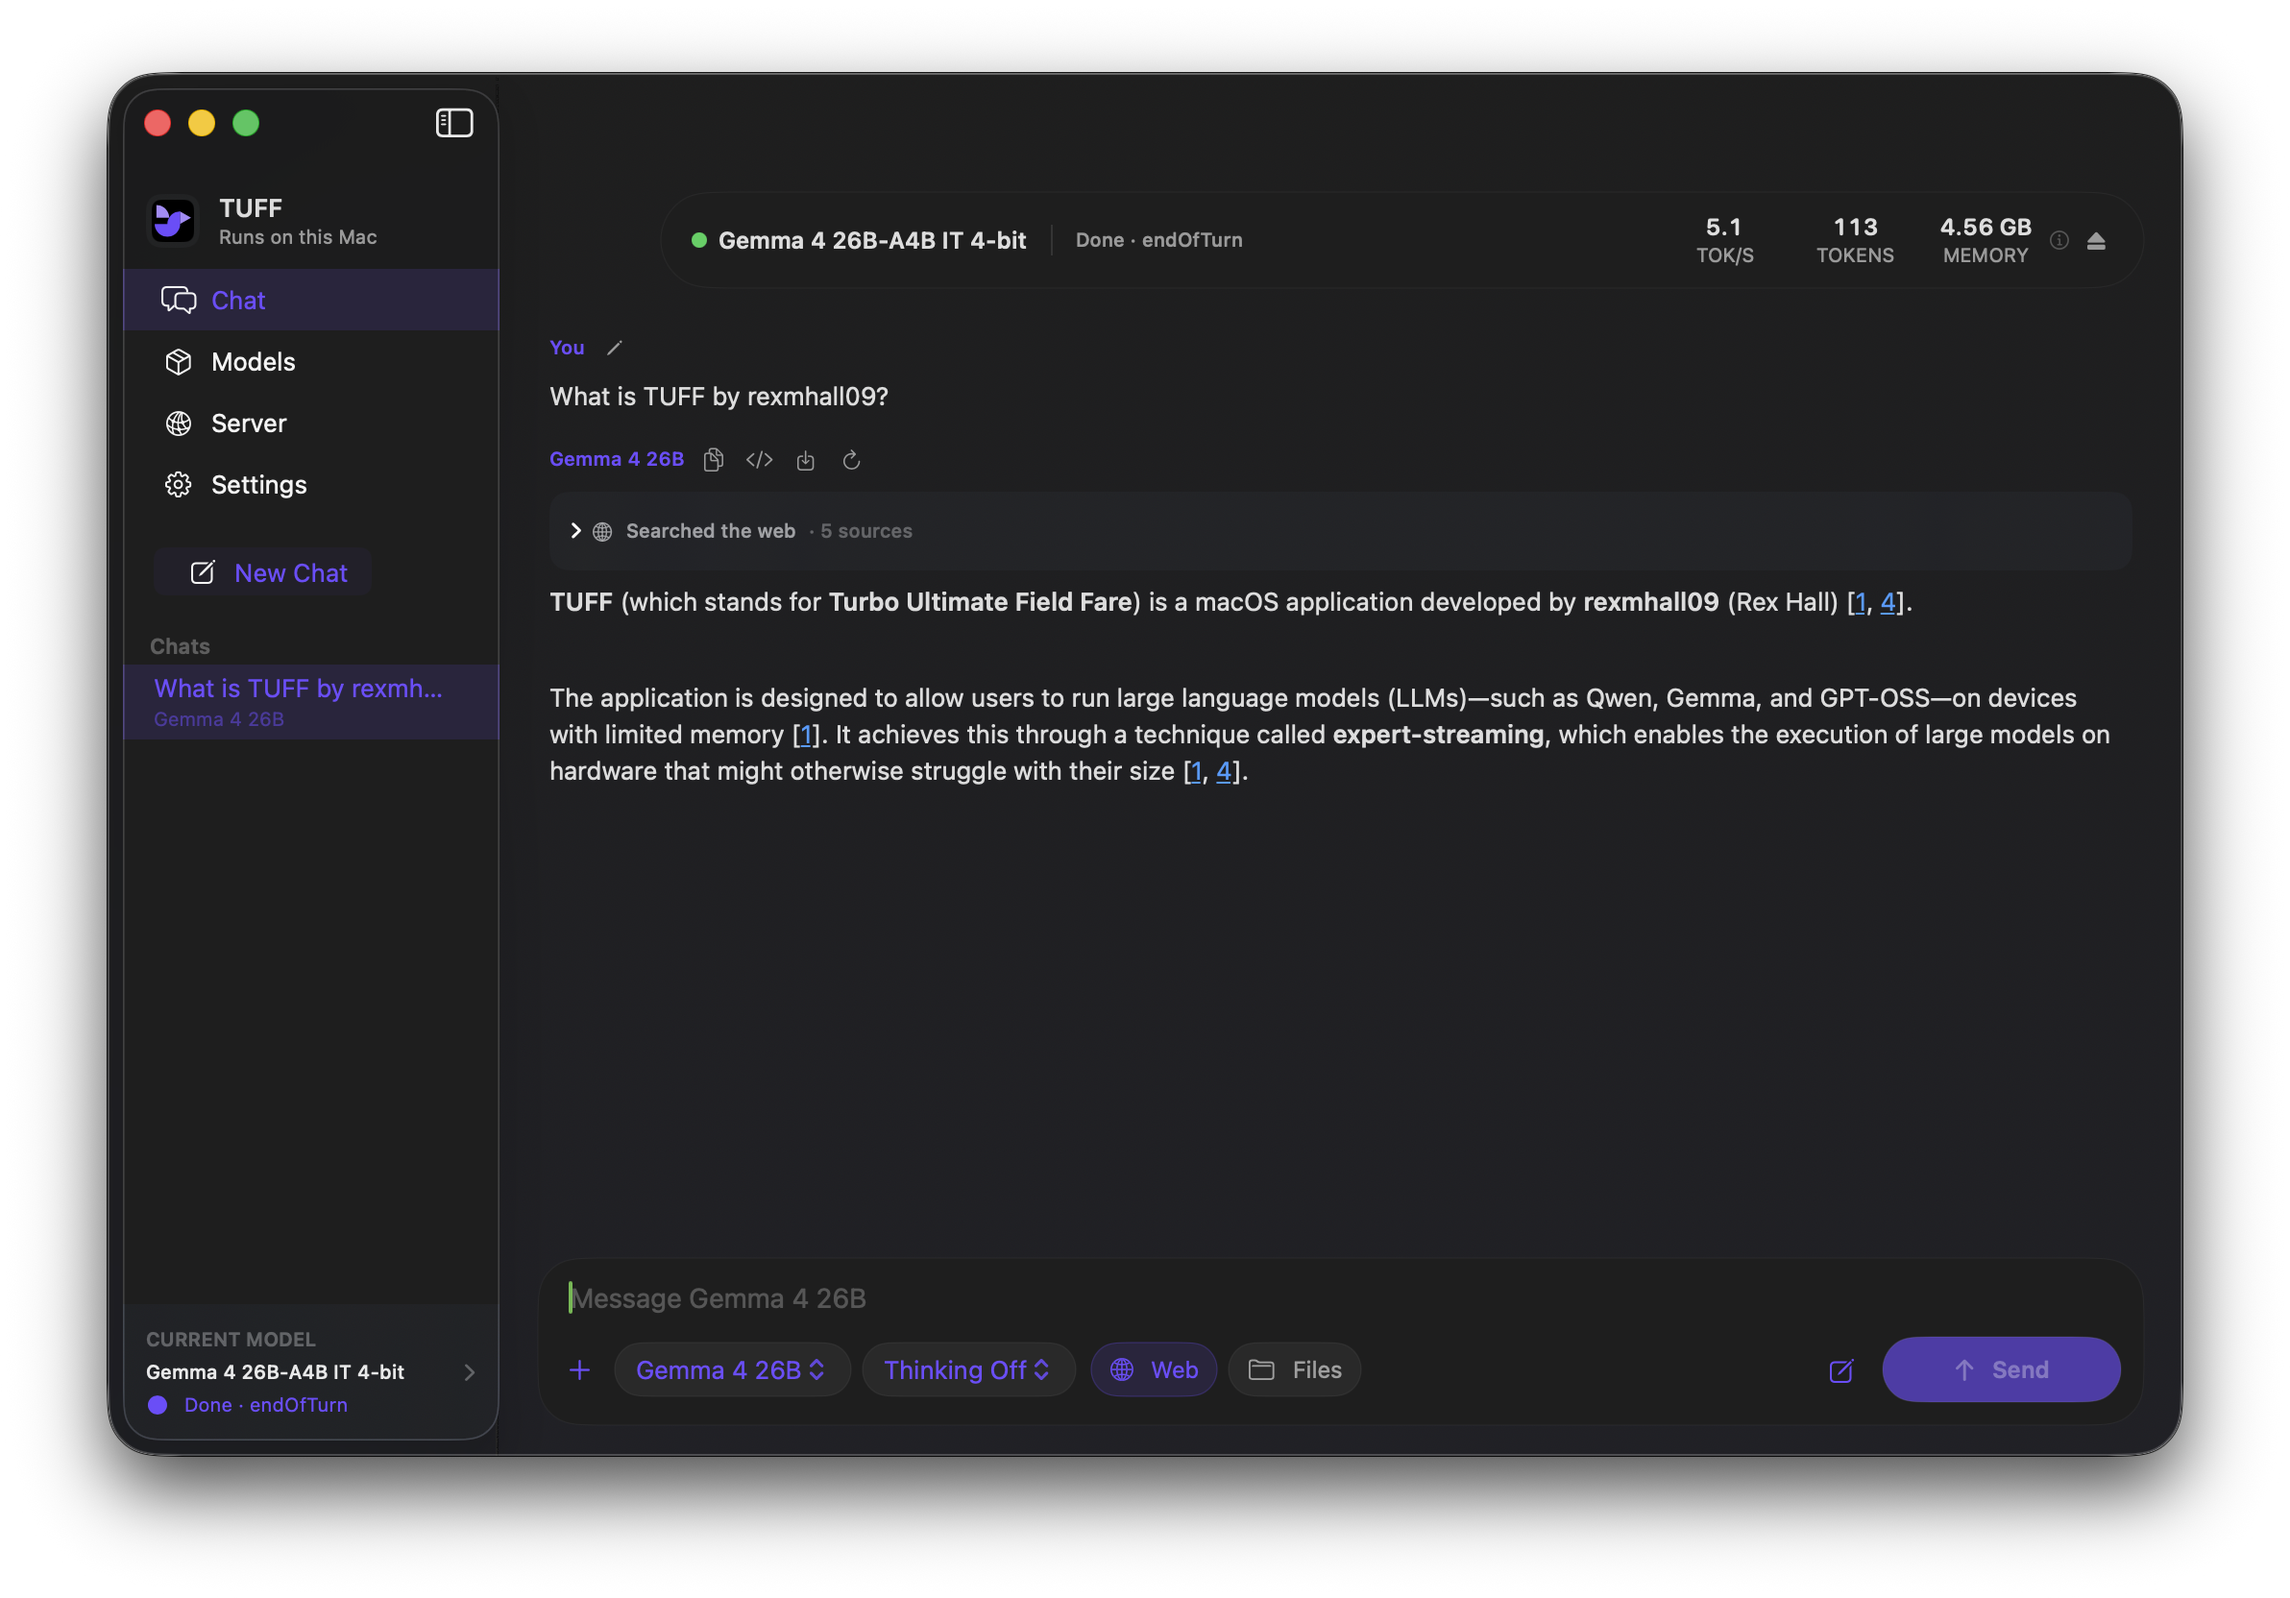
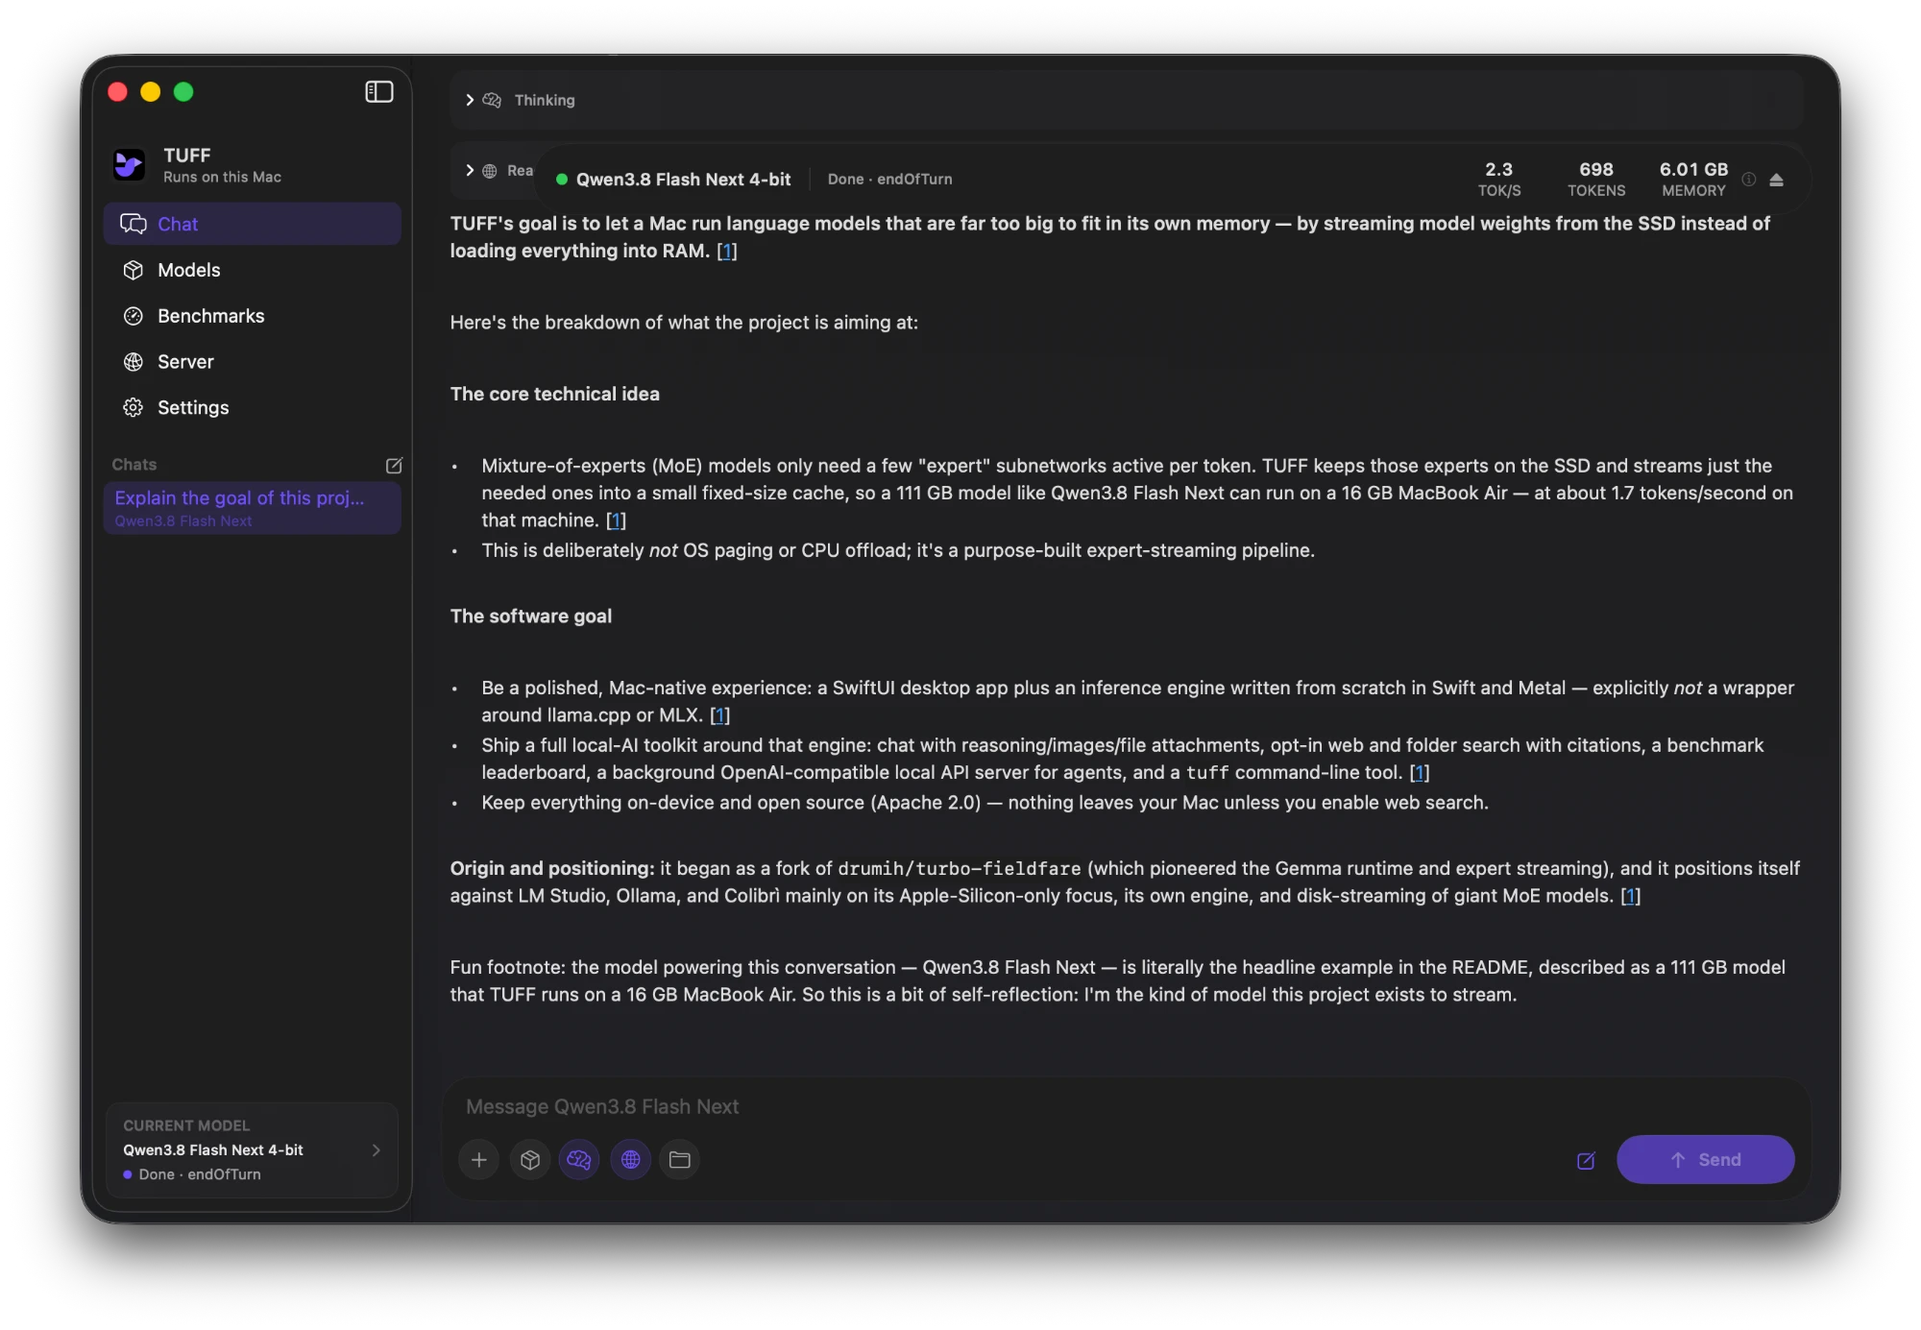
Use new 8.1 screenshots for chat, Benchmarks and Server

Changed region(s): [[0.031, 0.031, 0.961, 0.9625]]

diff --git a/index.html b/index.html
@@ -116,7 +116,7 @@
   </header>
 
   <div class="shot">
-    <img src="assets/tuff-chat.png" alt="TUFF chat with optional Web and Files search, tool activity and numbered sources">
+    <img src="assets/tuff-chat.png" alt="TUFF chatting with Qwen3.8 Flash Next, with web search and numbered sources">
   </div>
 
   <section aria-labelledby="big-models">
